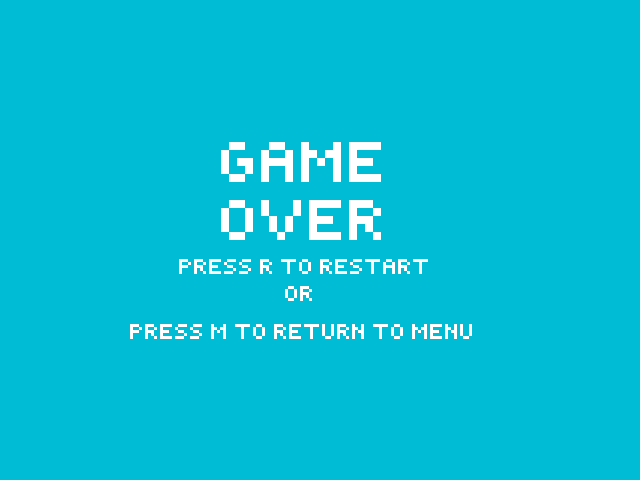
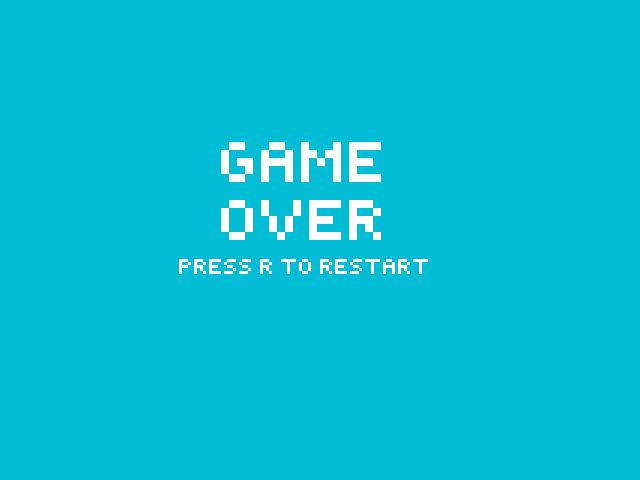
bug fixes, credit screne added

Changed region(s): [[0.1875, 0.6562, 0.75, 0.7188], [0.4375, 0.5938, 0.5, 0.625]]

diff --git a/src/scenes/Menu.js b/src/scenes/Menu.js
@@ -15,16 +15,21 @@ class Menu extends Phaser.Scene{
     create(){
         this.add.image(game.config.width/2,game.config.height/2,'menu');
         this.cursors = this.input.keyboard.createCursorKeys();
+        this.keyC = this.input.keyboard.addKey(Phaser.Input.Keyboard.KeyCodes.C);
     }
 
     update(){
-        /*if(Phaser.Input.Keyboard.JustDown(cursors.C)){
+        if(Phaser.Input.Keyboard.JustDown(this.keyC)){
+            cTrack = true;
             this.scene.start('creditScene');
-        }*/
+        }else{
 
         this.input.keyboard.on('keydown', (event) => {
-            this.sound.play('click');
-            this.scene.start('playScene');
+            if(cTrack == true){
+                this.sound.play('click');
+                this.scene.start('playScene');
+            }
         });
+    }
     }
 }

diff --git a/src/scenes/Play.js b/src/scenes/Play.js
@@ -86,6 +86,7 @@ class Play extends Phaser.Scene{
             this.player.destroy();
             this.gameOver = true;
             this.sound.play('splat');
+            this.bgm.stop();
             this.scene.start('gameOverScene');
         });
 
@@ -136,6 +137,7 @@ class Play extends Phaser.Scene{
             if(this.player.x < 0){
                 this.player.destroy();
                 this.gameOver = true;
+                this.bgm.stop();
                 this.scene.start('gameOverScene');
                 this.sound.play('splat');
             }

diff --git a/src/scenes/Credits.js b/src/scenes/Credits.js
@@ -1,0 +1,21 @@
+class Credits extends Phaser.Scene{
+    constructor(){
+        super("creditScene");
+    }
+    
+    preload(){
+        this.load.image('credit','./assets/credit.png');
+    }
+    
+    create(){
+        this.add.image(game.config.width/2,game.config.height/2,'credit');
+        this.cursors = this.input.keyboard.createCursorKeys();
+    }
+
+    update(){
+        this.input.keyboard.on('keydown', (event) => {
+            this.sound.play('click');
+            this.scene.start('menuScene');
+        });
+    }
+}

diff --git a/index.html b/index.html
@@ -16,6 +16,7 @@
     <script src="./src/scenes/prefabs/player.js"></script>
     <script src="./src/scenes/prefabs/platform.js"></script>
     <script src="./src/scenes/Menu.js"></script>
+    <script src="./src/scenes/Credits.js"></script>
     <script src="./src/scenes/gameOver.js"></script>
     <script src="./src/scenes/Play.js"></script>
     <script src="./src/main.js "></script>

diff --git a/src/scenes/gameOver.js b/src/scenes/gameOver.js
@@ -21,9 +21,9 @@ class GameOver extends Phaser.Scene{
             this.scene.start('playScene');
         }
 
-        if(Phaser.Input.Keyboard.JustDown(this.keyM)){
+        /*if(Phaser.Input.Keyboard.JustDown(this.keyM)){
             this.sound.play('click');
             this.scene.start('menuScene');
-        }
+        }*/
     }
 }

diff --git a/src/main.js b/src/main.js
@@ -20,10 +20,11 @@ let config = {
             debug: false,
         }
     },
-    scene: [ Menu, Play, GameOver]
+    scene: [ Menu, Credits, Play, GameOver]
 }
 
 let game = new Phaser.Game(config);
 let borderUISize = game.config.height/15;
 let borderPadding = borderUISize/3;
 let keyF,keyR,keyLEFT,keyRIGHT;
+let cTrack = false;
